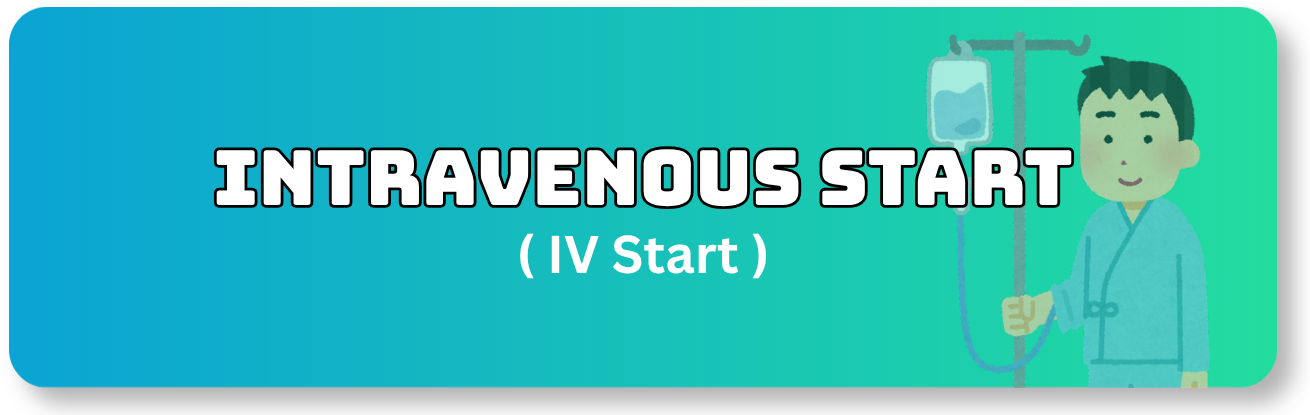
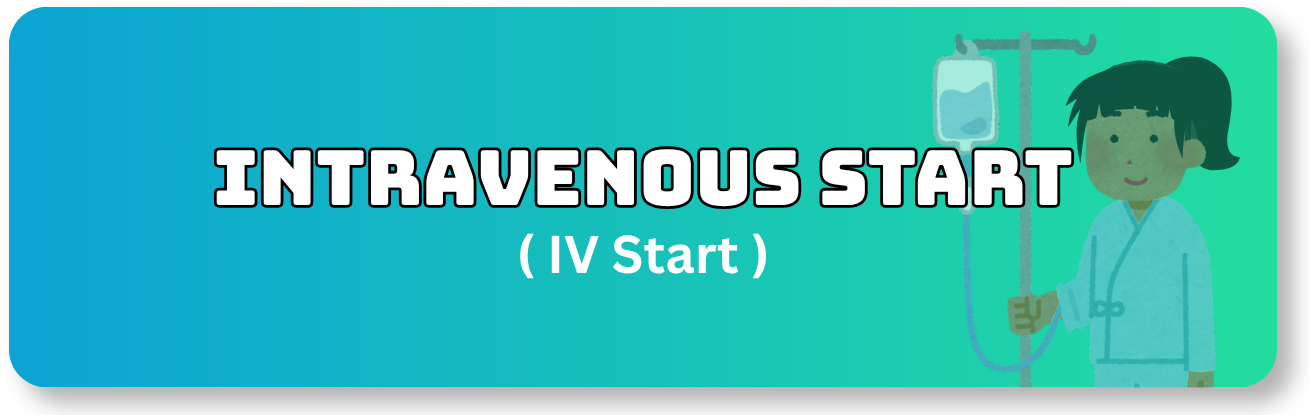
Swap IV Start procedure button with IV Button 2 design across Web and iOS

Changed region(s): [[0.0305, 0.0578, 0.9466, 0.9542]]

diff --git a/index.html b/index.html
@@ -8329,22 +8329,11 @@
   <script>
 // Register Riley PWA Service Worker
     if ('serviceWorker' in navigator) {
-      let refreshing = false;
-      navigator.serviceWorker.addEventListener('controllerchange', () => {
-        if (!refreshing) {
-          refreshing = true;
-          window.location.reload();
-        }
-      });
-
       window.addEventListener('load', () => {
         navigator.serviceWorker.register('./sw.js', { scope: './' })
           .then(reg => {
             console.log('Riley PWA ServiceWorker active with scope:', reg.scope);
             reg.update();
-            setInterval(() => {
-              reg.update();
-            }, 60000);
           })
           .catch(err => console.warn('ServiceWorker registration error:', err));
       });
@@ -8910,7 +8899,6 @@
         // Navigating away from games stops background music and audio
         clearAnatomyTimers();
         clearIVIntroTimers();
-        clearMRITimers();
         stopIVBackgroundMusic();
         stopMaskBackgroundMusic();
         resetMaskScene();

diff --git a/sw.js b/sw.js
@@ -1,5 +1,5 @@
 // Riley PWA Service Worker
-const CACHE_NAME = 'riley-pwa-v104';
+const CACHE_NAME = 'riley-pwa-v105';
 const PRECACHE_ASSETS = [
   './',
   './index.html',
@@ -218,6 +218,8 @@ const PRECACHE_ASSETS = [
   './assets/Games.png',
   './assets/Preparations.png',
   './assets/ButtonIVStart.png',
+  './assets/IVButton2.png',
+  './assets/IV%20Button%202.png',
   './assets/ButtonMRI.png',
   './assets/MRIRoomLightsOn.png',
   './assets/MRIRoomLightsOff.png',
